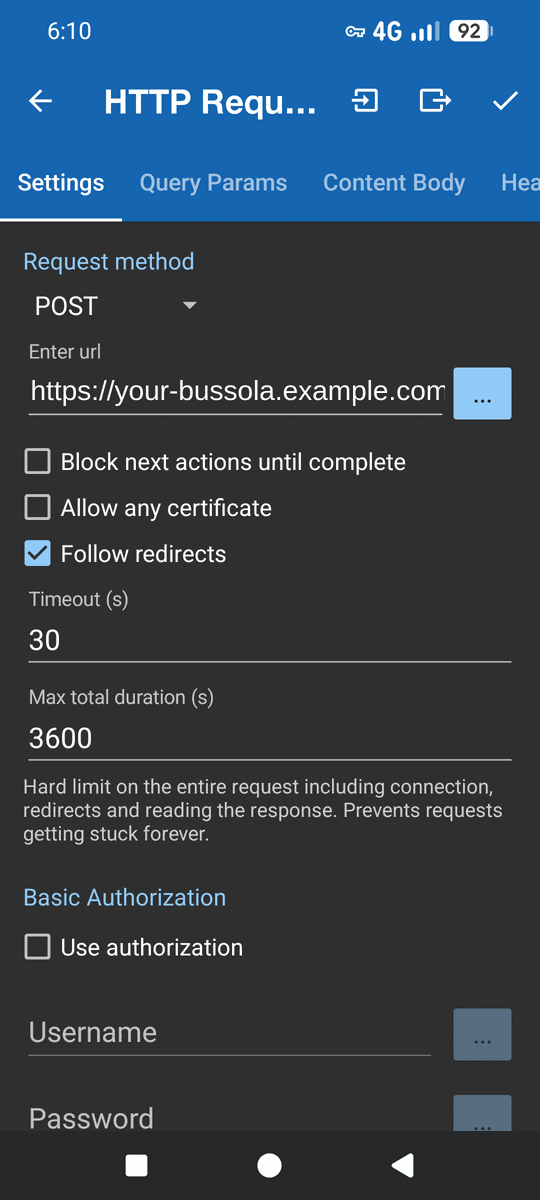
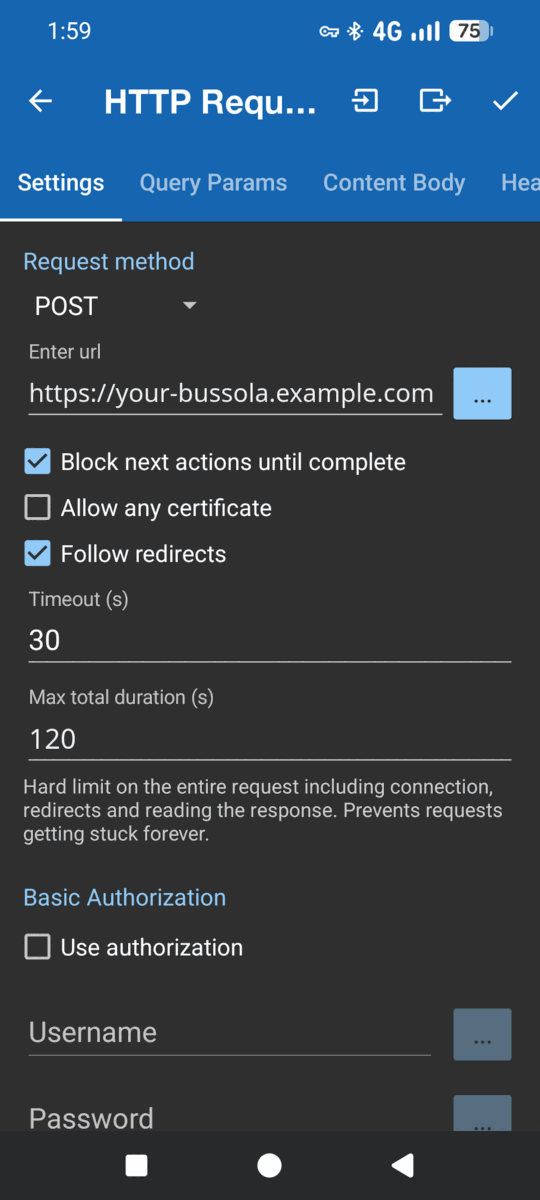
Notifications guide: a simpler retry recipe (one macro, a loop and Wait Until Trigger); screenshots with the right settings
Claude-Session: https://claude.ai/code/session_01FAY83oBGNaduzSaEqNNSSh

diff --git a/docs/notifications.md b/docs/notifications.md
@@ -98,10 +98,11 @@ tabs. On *Settings*:
   followed by `/api/inbox`. It has to be reachable from the phone when the
   notification arrives, so on mobile data that means the public HTTPS address
   (or a VPN back home).
-- Leave *Block next actions*, *Allow any certificate* and *Basic
-  Authorization* off, and keep *Follow redirects* on. (Turn *Block next
-  actions* on only if you add the log described in [See what was sent and what
-  came back](#see-what-was-sent-and-what-came-back).)
+- Tick *Block next actions until complete* (the actions after the request
+  wait for its answer) and keep *Follow redirects* on; leave *Allow any
+  certificate* and *Basic Authorization* off.
+- *Timeout (s)* `30` and *Max total duration (s)* `120`, so a request that
+  hangs gives up after two minutes instead of an hour.
 
 <p align="center">
   <img src="screenshots/android-http-settings.png" width="240" alt="MacroDroid's HTTP request, Settings tab: method POST and the URL ending in /api/inbox">
@@ -253,7 +254,7 @@ Any one of these fixes it:
   always-on VPN, in Android's VPN settings). A VPN that is installed but
   switched off, or that has not reconnected yet after the phone changed
   network, is the usual reason this keeps happening: requests sent in that
-  window are lost, which is what [the queue below](#when-bussola-cannot-be-reached-a-queue-on-the-phone-not-tested-yet)
+  window are lost, which is what [trying again later](#when-bussola-cannot-be-reached-try-again-later-not-tested-yet)
   is for.
 - **Split DNS.** Have the domain resolve to the private address at home and to
   the public one everywhere else, so the same URL works on both.
@@ -262,184 +263,91 @@ If the address is public and it still times out, the server or the router's
 port forwarding is not answering: try the same URL in the phone's browser on
 mobile data.
 
-### When Bussola cannot be reached: a queue on the phone [NOT TESTED YET]
+### When Bussola cannot be reached: try again later [NOT TESTED YET]
 
-> **Not tested yet.** The setup above was tried on a real phone; this one was
-> written from [MacroDroid's documentation](https://www.macrodroidforum.com/wiki/)
-> and has not been run on a phone. The names of some options may differ a little
-> between MacroDroid versions. If you try it, an issue or a correction is welcome.
+> **[NOT TESTED YET]** Built from MacroDroid's documentation; nobody has run
+> it on a phone yet.
 
-A notification that arrives while the phone has no signal, or while Bussola is
-being restarted, ends with code `0` and is lost. The recipe below keeps such
-notifications on the phone and sends them again later. It builds on the log in
-[See what was sent and what came back](#see-what-was-sent-and-what-came-back),
-so set that up first.
+Without this, a notification sent while Bussola cannot be reached (mobile data
+with the VPN down, the server restarting) is lost: you only see it in the log.
+With it, the macro keeps that notification and **sends it again when the
+connection comes back**, or every 15 minutes, for up to about 3 hours.
 
-**Why every request carries an id.** Each notification gets its own id, sent as
-the query parameter `notification_id` (1 to 100 characters), and a resend reuses it.
-A request can reach Bussola and have only its answer lost on the way back, and
-the phone, seeing `0`, would send it again and leave two drafts of one payment;
-with the id, Bussola recognises the second copy, answers `200` with
-`"duplicate": true` and stores nothing.
+Each notification gets a **name** (`notification_id`) the first time it is
+sent, and keeps it on every new try. If a try did reach Bussola but its answer
+got lost, Bussola recognises the name, answers `200` with `"duplicate": true`
+and does not store it twice.
 
-So the codes mean, for the phone: `201` taken, `200` with `"duplicate": true`
-already taken earlier, both are success. `0` (no answer) and `5xx` (Bussola
-answered but failed) are worth trying again. A `4xx` is not: a wrong token,
-an empty body or a Bussola with no model gives the same answer every time, so it
-is only reported.
-
-A few MacroDroid terms used below: a **global variable** is shared by every
-macro and is created from the **Variables** tile on MacroDroid's home screen
-(a local one belongs to one macro); a **Dictionary** variable holds entries
-under keys, and an entry can itself be a dictionary. Magic text can be written
-with square or curly brackets, `[lv=x]` or `{lv=x}`; this section uses curly
-brackets where a dictionary is involved, because its keys are written in
-square ones (`{v=bussola_queue[key][text]}`), as MacroDroid's documentation
-recommends.
-
-#### The queue
-
-On MacroDroid's home screen, open **Variables**, add one with **+**, name it
-`bussola_queue` and choose the type **Dictionary**. Each waiting notification
-will be one entry, under its id, holding two entries of its own: `source` and
-`text`. The text is stored as a string variable, so quotation marks and line
-breaks in it need no escaping.
-
-#### The main macro: an id, and the queue when it fails
-
-Open the macro from [the steps above](#see-what-was-sent-and-what-came-back).
-
-1. **Two more local variables**, both string: `bussola_id` and
-   `bussola_text`.
-2. **At the top, before** *Set Local Variable* `bussola_code`, add two
-   **Set Variable** actions:
-   - `bussola_id`, *Value* `[not_app_package]-[system_time_ms]`: the banking
-     app's package name (`com.revolut.revolut`, no spaces) and the time in
-     milliseconds, unique for each notification and well under 100 characters.
-   - `bussola_text`, *Value* `[not_title] [notification]`.
-3. **In the HTTP request**: on *Query Params* add `notification_id` = `[lv=bussola_id]`
-   next to `source` (the tab accepts magic text, as it already does for
-   `[not_app_name]`); on *Content Body* replace the text with
-   `[lv=bussola_text]`, so what is sent and what is queued are the same text.
-4. **Replace the If clause of step 5** (the failure notification) with one that
-   has two branches. Tap the If clause to add an *Else If*:
-   - **If** `bussola_code` *equals* `0` **OR** `bussola_code` *greater than*
-     `499` (two *MacroDroid Variable* conditions): put the notification in the
-     queue with two **Set Variable** actions on the global `bussola_queue`.
-     For each one choose *Define manually* as the key and enter the path, then
-     the entry type **String** and the value:
-     - key `[{lv=bussola_id}][source]`, value `[not_app_name]`;
-     - key `[{lv=bussola_id}][text]`, value `[lv=bussola_text]`.
-
-     A nested level written this way is created as a dictionary by itself.
-     Then **Log Event** in the `Bussola` channel:
-     `Bussola: queued [lv=bussola_id] after [lv=bussola_code]`.
-   - **Else If** `bussola_code` *less than* `200` **OR** *greater than* `299`
-     (this leaves the `4xx`): the **Display Notification** from before.
-
-#### A second macro: "Bussola queue"
-
-Create a new macro called `Bussola queue`.
-
-1. **Triggers**, two of them:
-   - **Regular Interval**, *Use fixed interval* `00:15:00`, *Use alarm* on;
-   - **Data Connectivity Change**, *Data Available*: the phone has Wi-Fi or
-     mobile data again. (If you reach Bussola through a VPN, **Network
-     Transport Change** with *VPN* ticked fires when the VPN comes up.)
-2. **Constraint**: **Compare Values**, type *Integer*, *Value 1*
-   `{size=bussola_queue}`, operator `>`, *Value 2* `0`. With an empty queue
-   the macro does not run at all.
-3. **Local variables**: `bussola_code` (integer), `bussola_answer` (string),
-   and `bussola_sent` (dictionary), the ids to take out of the queue at the end.
-4. **Actions**:
-
-   ```
-   Iterate Dictionary/Array: bussola_queue
-       Set Variable: bussola_code = 0
-       HTTP Request: POST …/api/inbox
-           Query Params  source   = {v=bussola_queue[{iterator_dictionary_key}][source]}
-                         notification_id = {iterator_dictionary_key}
-           Content Body  text/plain: {v=bussola_queue[{iterator_dictionary_key}][text]}
-           Header Params Authorization = Bearer bpt_…your token…
-           Block next actions until complete, code → bussola_code, response → bussola_answer
-       Log Event (Bussola): Bussola queue {iterator_dictionary_key} → [lv=bussola_code] [lv=bussola_answer]
-       If bussola_code = 0 OR bussola_code > 499
-           Break from loop
-       Else If bussola_code > 199 AND bussola_code < 300
-           Set Variable: bussola_sent[{iterator_dictionary_key}] = True
-       Else
-           Set Variable: bussola_sent[{iterator_dictionary_key}] = True
-           Display Notification: Bussola did not take a queued notification
-                                 [lv=bussola_code] [lv=bussola_answer]
-       End If
-       Wait Before Next Action: 5 seconds
-   End Loop
-   Iterate Dictionary/Array: bussola_sent
-       Clear Dictionary/Array Entry: bussola_queue[{iterator_dictionary_key}] Delete Key
-   End Loop
-   Clear Dictionary/Array Entry: bussola_sent [All entries] Delete Key
-   ```
-
-   Build the HTTP request like the main one (same URL, *Settings* and
-   token), with the values above. For the two *Set Variable* on
-   `bussola_sent`, pick the local dictionary, *Define manually* the key
-   `[{iterator_dictionary_key}]` and the type **Boolean**. For *Clear
-   Dictionary/Array Entry* on `bussola_queue`, *Define manually* the key the
-   same way and choose *Delete Key*.
-
-What it does, item by item:
-
-- **`2xx`** (`201`, or `200` with `"duplicate": true`): sent, taken out of the
-  queue.
-- **`0` or `5xx`**: Bussola is still out of reach or in trouble. *Break from
-  loop* stops there, so the queue is not run through at every attempt; the
-  item and those after it stay for the next run.
-- **Any other code** (a `4xx`: a revoked token, `409 AI_DISABLED`): trying
-  again would only give the same answer, so the item leaves the queue with a
-  notification. Its text is still in the `Bussola` User Log channel, so the
-  movement can be entered by hand.
-
-The items are removed after the loop, not inside it, because MacroDroid's
-documentation does not say whether a dictionary may change while it is being
-iterated. If two runs overlap (a regained connection a minute before the
-quarter-hour), the same item can be sent twice: Bussola answers the second with
-`"duplicate": true`, and both runs count it as sent, which is the point of the
-id. The 5-second wait keeps the loop from firing requests back to back; if
-your Bussola reads with a [cloud model on a free plan](#choosing-where-the-model-runs),
-make it 15 seconds, or a long queue sent in a burst meets the provider's limit
-per minute.
-
-To see what is waiting, open **Variables** on MacroDroid's home screen and tap
-`bussola_queue`. To throw the queue away, delete its entries there.
-
-#### A simpler variant: retry for a minute or two
-
-For short blips (a lift, a tunnel) a queue is more than you need: the main
-macro can try again by itself. Put a **Repeat actions** around the request,
-*Fixed number* `3`, so that it reads:
+Start from the macro of [See what was sent and what came
+back](#see-what-was-sent-and-what-came-back). The finished macro looks like
+this (indented lines are inside the loop or the If):
 
 ```
-Set Variable: bussola_id = [not_app_package]-[system_time_ms]
-Set Variable: bussola_text = [not_title] [notification]
-Repeat Actions: 3 times
-    Set Variable: bussola_code = 0
-    HTTP Request (notification_id = [lv=bussola_id], body [lv=bussola_text])
-    Log Event (Bussola): … → [lv=bussola_code] [lv=bussola_answer]
-    If bussola_code > 0 AND bussola_code < 500
-        Break from loop
-    End If
-    Wait Before Next Action: 1 minute
-End Loop
-If bussola_code < 200 OR bussola_code > 299
-    Display Notification: Bussola did not take a notification …
-End If
+Trigger   Notification Received
+Actions   Set Variable  bussola_id   = [not_app_package]-[system_time_ms]
+          Set Variable  bussola_app  = [not_app_name]
+          Set Variable  bussola_text = [not_title] [notification]
+          Repeat Actions (12 times)
+              Set Variable  bussola_code = 0
+              HTTP Request (POST)
+              Log Event
+              If  bussola_code > 0  AND  bussola_code < 500
+                  Break from loop
+              End If
+              Wait Until Trigger (connection back, or 15 minutes)
+              Wait Before Next Action (10 seconds)
+          End Loop
+          If  bussola_code < 200  OR  bussola_code > 299
+              Display Notification
+          End If
 ```
 
-The id is built once, before the loop, so every attempt carries the same one
-and an attempt whose answer was lost is not stored twice. Any answer from
-Bussola other than a `5xx` ends the loop; after three failed attempts, about
-two minutes, you get the notification, and the text is in the log. The two
-variants can be combined: retry three times, then queue.
+Step by step:
+
+1. **Three more local variables**, all *String*: `bussola_id`, `bussola_app`,
+   `bussola_text` (next to `bussola_code` and `bussola_answer`).
+2. **At the top of the actions**, three **Set Variable** actions:
+   - `bussola_id` = `[not_app_package]-[system_time_ms]`: the notification's
+     name, the app plus the time in milliseconds.
+   - `bussola_app` = `[not_app_name]`
+   - `bussola_text` = `[not_title] [notification]`
+
+   They keep the notification while the macro waits: after a wait, the
+   `[notification]` text may belong to something else.
+3. **Change the HTTP request** to use them:
+   - *Query Params*: `source` = `[lv=bussola_app]`, and add `notification_id` =
+     `[lv=bussola_id]`.
+   - *Content Body*: `[lv=bussola_text]`.
+4. **Change the Log Event message** to
+   `Bussola ← [lv=bussola_app]: [lv=bussola_text] → [lv=bussola_code] [lv=bussola_answer]`.
+5. **Put the request in a loop.** Add **Repeat Actions**, *Fixed number*, `12`,
+   and move into it, in this order: *Set Variable bussola_code = 0*, *HTTP
+   Request*, *Log Event*. *End Loop* is added for you, after them.
+6. **Stop when there is an answer.** Still inside the loop, after Log Event:
+   an **If clause** with two *MacroDroid Variable* conditions joined with
+   **AND**: `bussola_code` *greater than* `0` and `bussola_code` *less than*
+   `500`; inside it, **Break from loop**. A 2xx means done; a 4xx (a wrong
+   token, for example) will not get better by trying again, so it stops too.
+7. **Wait for the connection.** Still inside the loop, after that If:
+   **Wait Until Trigger**, with three triggers (any one ends the wait):
+   - **Data Connectivity Change**, *Data Available*;
+   - **Network Transport Change**, *VPN* (when Tailscale, WireGuard, Twingate…
+     connects);
+   - **Wifi State Change**, *Connected to network*, *Any Network*.
+
+   *Timeout*: **Continue after timeout**, `15` minutes. Then **Wait Before
+   Next Action**, `10` seconds, so a VPN that just came up has time to settle.
+8. **After the loop**, keep the If with **Display Notification** from before
+   (`bussola_code` less than 200 OR greater than 299): it now fires only when
+   all 12 tries failed, or Bussola refused the notification.
+
+What to expect in the User Log when the phone is offline: a line `→ 0` for the
+first try, then, when the connection comes back, a line `→ 201 …`. A resend of
+something Bussola already had shows `→ 200 {…"duplicate":true…}`: that is fine.
+
+Limits: the waiting macro lives in MacroDroid's memory, so restarting the
+phone, or Android closing MacroDroid, drops what was waiting. Twelve tries 15
+minutes apart cover about three hours; raise the number in step 5 for longer.
 
 ## iPhone [NOT TESTED YET]
 
